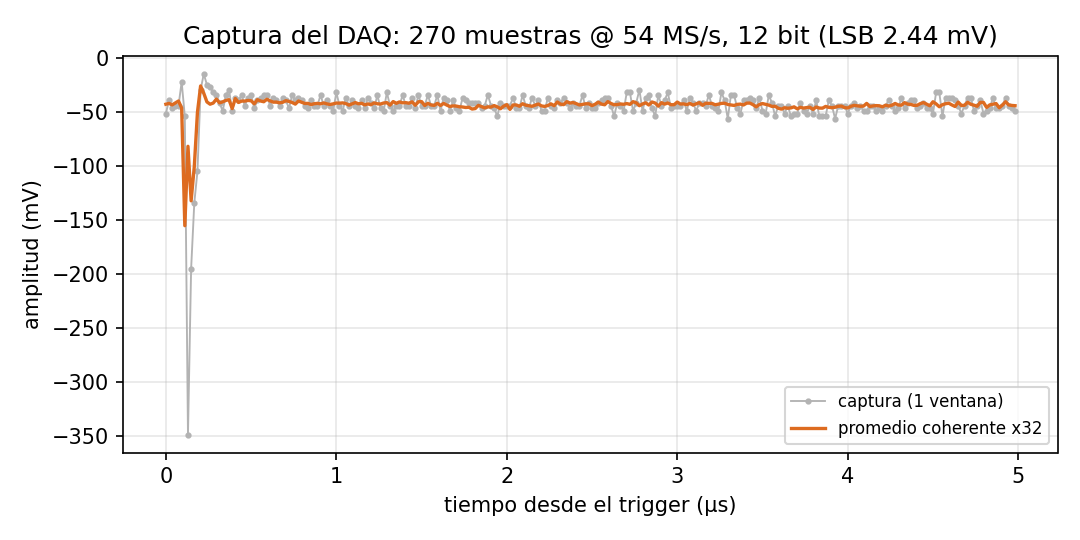
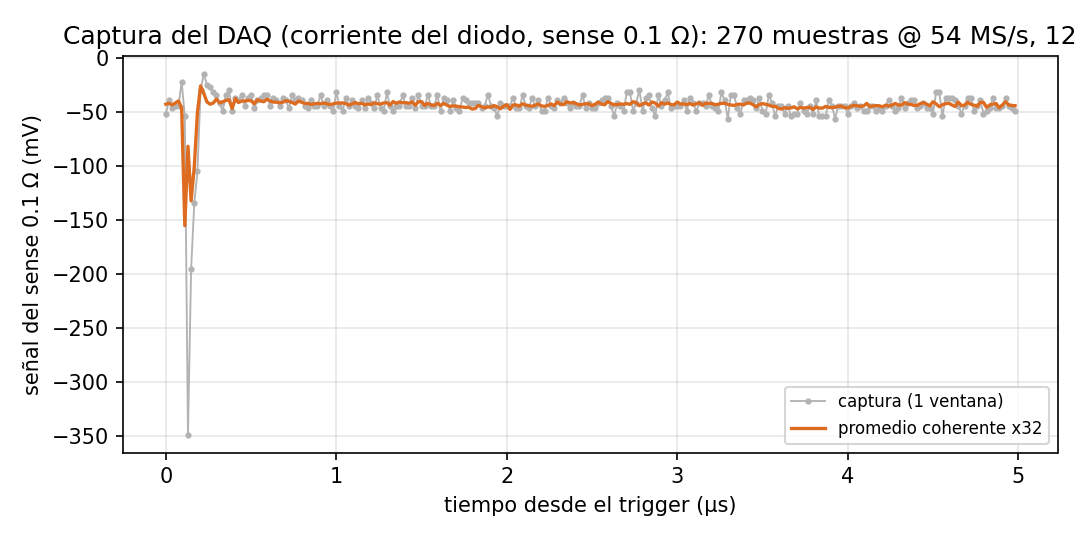
fix(sem4): atribucion correcta de medicion (osc=tension en laser, DAQ=corriente sense 0.1 ohm)
- Quitado el dato de corriente no confirmado (67W/80A ignorados).
- Comparativa relabelada: tension en el laser (osc) vs corriente del diodo (DAQ).
- Captions y figuras actualizadas (daq-vs-osc, daq-captura, daq-muestreo).

Changed region(s): [[0.0611, 0.0296, 1.0, 0.0889], [0.0, 0.2074, 0.0611, 0.7111]]

diff --git a/reportes/sem4/avances_sem4.tex b/reportes/sem4/avances_sem4.tex
@@ -344,29 +344,32 @@ especificados.
 integridad de transmisión, linealidad de la conversión y respuesta dinámica
 (metodología \textit{bring-up}).}{bringup}
 
-\figph{daq-captura.png}{Captura del DAQ: ventana de 270 muestras @ 54~MSPS, 12 bit
-(LSB 2.44~mV); una adquisición individual y su promedio coherente $\times$32.
-Evidencia de captura a la velocidad y niveles especificados.}{captura}
+\figph{daq-captura.png}{Captura del DAQ (corriente del diodo vía sense de
+0.1~$\Omega$): ventana de 270 muestras @ 54~MSPS, 12 bit (LSB 2.44~mV); una
+adquisición individual y su promedio coherente $\times$32. Evidencia de captura a la
+velocidad y niveles especificados.}{captura}
 
 Para validar la adquisición sobre una \textbf{señal real rápida}, se capturó el mismo
 transitorio sincronizado al láser con el osciloscopio de referencia (200~MS/s) y con
 el DAQ propio (54~MS/s, 12~bit). La Figura~\ref{fig:daqvsosc}, con ambas trazas
 alineadas en el instante del transitorio, muestra que el DAQ \textbf{reproduce el
-evento con timing coherente}. Las amplitudes difieren (V vs mV) porque cada
-instrumento mide en un punto/escala distinto del sistema; y a 54~MS/s el transitorio
+evento con timing coherente}. Ambos instrumentos miden el mismo disparo en magnitudes
+distintas: el osciloscopio registra la \textbf{tensión directamente en el láser} y el
+DAQ digitaliza la \textbf{corriente del diodo} a través de la resistencia de sensado
+de 0.1~$\Omega$. A 54~MS/s el transitorio
 ($\sim$25~ns FWHM en la referencia) queda en $\sim$1 muestra, coherente con la
 resolución temporal del DAQ: capta el evento y su amplitud, no su estructura de
 nanosegundos (Sección~\ref{sec:futuro}). El transitorio capturado corresponde a la
 \textbf{descarga de avalancha} que excita el diodo láser —pulsos de pocos
-nanosegundos con corrientes de decenas de amperios, según la técnica de conmutación
-en avalancha de transistores de Jim Williams~\cite{williams_an47}—, que llevan al
-diodo a potencias pico muy por encima de su régimen continuo; su naturaleza
-ultracorta es justamente lo que el DAQ submuestrea a 54~MS/s.
+nanosegundos, según la técnica de conmutación en avalancha de transistores de Jim
+Williams~\cite{williams_an47}—, que lo lleva por encima de su régimen continuo de
+operación; su naturaleza ultracorta es justamente lo que el DAQ submuestrea a 54~MS/s.
 
-\figph{daq-vs-osc.png}{Mismo transitorio del láser capturado por el osciloscopio de
-referencia (200~MS/s) y por el DAQ propio (54~MS/s, 12~bit), alineados en el instante
-del evento. El DAQ reproduce el transitorio con \textit{timing} coherente; las escalas
-verticales difieren por medir en puntos distintos del sistema.}{daqvsosc}
+\figph{daq-vs-osc.png}{Mismo disparo de avalancha medido por dos vías: el osciloscopio
+registra la \textbf{tensión en el láser} (200~MS/s) y el DAQ la \textbf{corriente del
+diodo} en el sense de 0.1~$\Omega$ (54~MS/s, 12~bit), alineados en el instante del
+evento. El DAQ reproduce el transitorio con \textit{timing} coherente; las magnitudes
+verticales son distintas (tensión vs corriente).}{daqvsosc}
 
 \subsection{Driver de excitación V2.0 y estimación de potencia}
 El Driver V2.0 entregó pulsos de corriente estables (Figura~\ref{fig:pulsos}). A

diff --git a/reportes/sem4/figuras/scripts/plot_comparativa.py b/reportes/sem4/figuras/scripts/plot_comparativa.py
@@ -67,8 +67,8 @@ def save_daq_captura(td, vd, vdp):
     ax.plot(td, vd, color="0.7", lw=0.9, marker="o", ms=2, label="captura (1 ventana)")
     ax.plot(td, vdp, color=ORANGE, lw=1.6, label="promedio coherente x32")
     ax.set_xlabel("tiempo desde el trigger (µs)")
-    ax.set_ylabel("amplitud (mV)")
-    ax.set_title("Captura del DAQ: 270 muestras @ 54 MS/s, 12 bit (LSB 2.44 mV)")
+    ax.set_ylabel("señal del sense 0.1 Ω (mV)")
+    ax.set_title("Captura del DAQ (corriente del diodo, sense 0.1 Ω): 270 muestras @ 54 MS/s, 12 bit")
     ax.grid(alpha=0.3)
     ax.legend(fontsize=8)
     fig.tight_layout()
@@ -89,17 +89,17 @@ def main():
 
     fig, ax = plt.subplots(2, 1, figsize=(7.2, 5.2), sharex=True)
     ax[0].plot(to0, vo, color=BLUE, lw=1.0)
-    ax[0].set_ylabel("voltaje (V)")
-    ax[0].set_title("Osciloscopio (referencia) — 200 MS/s", color=BLUE, fontsize=10, loc="left")
+    ax[0].set_ylabel("tensión en el láser (V)")
+    ax[0].set_title("Osciloscopio en el láser (tensión) — 200 MS/s", color=BLUE, fontsize=10, loc="left")
     ax[1].plot(td0, vd, color=ORANGE, lw=1.0, marker="o", ms=2.5)
-    ax[1].set_ylabel("amplitud (mV)")
+    ax[1].set_ylabel("señal del sense 0.1 Ω (mV)")
     ax[1].set_xlabel("tiempo relativo al transitorio (µs)")
-    ax[1].set_title("DAQ propio — 54 MS/s, 12 bit (LSB 2.44 mV)", color=ORANGE, fontsize=10, loc="left")
+    ax[1].set_title("DAQ en el sense de corriente 0.1 Ω — 54 MS/s, 12 bit", color=ORANGE, fontsize=10, loc="left")
     for a in ax:
         a.grid(alpha=0.3)
         a.axvline(0, color="0.6", ls=":", lw=1)
     ax[1].set_xlim(-0.6, 4.8)                     # ventana del DAQ
-    fig.suptitle("Mismo transitorio del láser: osciloscopio vs DAQ propio", fontsize=11)
+    fig.suptitle("Mismo disparo: tensión en el láser (osc.) vs corriente del diodo (DAQ)", fontsize=11)
     fig.tight_layout()
     fig.savefig(OUT, dpi=150)
     print("OK ->", OUT)

diff --git a/reportes/sem4/figuras/scripts/plot_muestreo.py b/reportes/sem4/figuras/scripts/plot_muestreo.py
@@ -42,7 +42,7 @@ def main():
                     f"Ts={Ts:.1f} ns (54 MS/s), {t[-1]-t[0]:.1f} us",
                     fontsize=10, loc="left")
     ax[0].set_xlabel("tiempo desde el trigger (us)")
-    ax[0].set_ylabel("amplitud (mV)")
+    ax[0].set_ylabel("señal del sense 0.1 Ω (mV)")
     ax[0].grid(alpha=0.3)
     ax[0].annotate("cada punto = 1 muestra (12 bit)", xy=(t[5], mv[5]),
                    xytext=(1.2, mv.min()*0.6), fontsize=8, color=ORANGE,
@@ -56,7 +56,7 @@ def main():
     ax[1].set_title(f"Zoom al transitorio — muestras discretas (stem): "
                     f"primeras {k} muestras", fontsize=10, loc="left")
     ax[1].set_xlabel("tiempo desde el trigger (us)")
-    ax[1].set_ylabel("amplitud (mV)")
+    ax[1].set_ylabel("señal del sense 0.1 Ω (mV)")
     ax[1].grid(alpha=0.3)
     it = int(np.argmax(np.abs(mv[:k] - np.median(mv))))
     ax[1].annotate(f"transitorio: ~1 muestra\n(t={t[it]:.3f} us, {mv[it]:.0f} mV)",